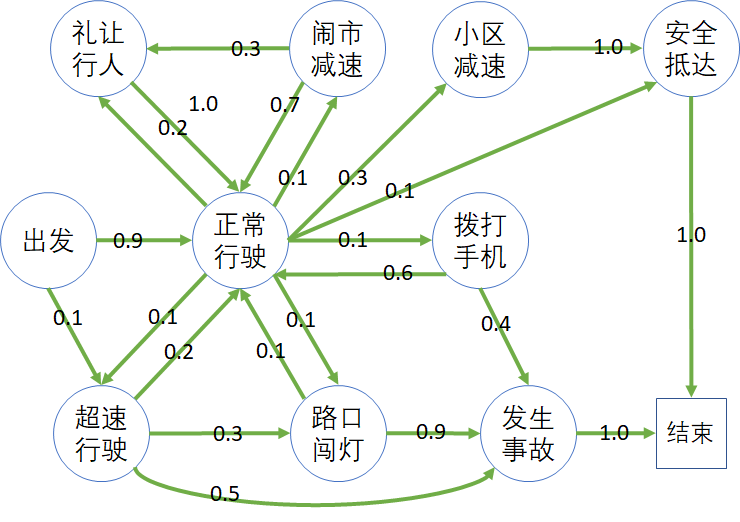
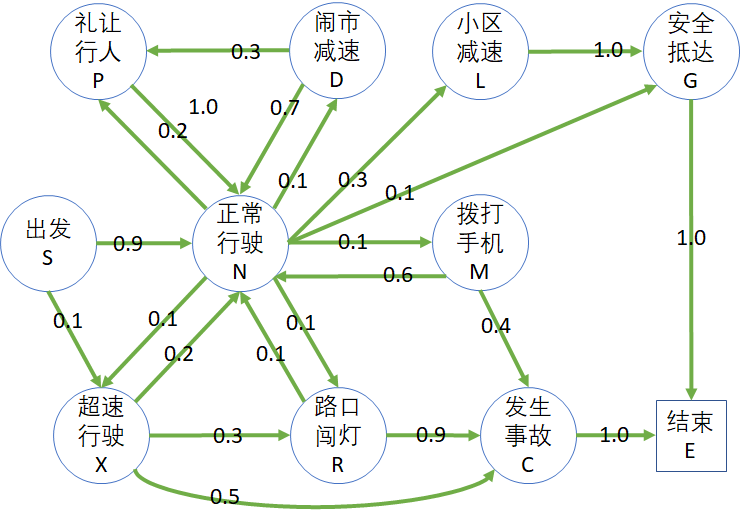
up

diff --git a/基础教程/A7-强化学习/60-安全驾驶问题 - 从简单奖励到价值形成/1-安全驾驶问题.md b/基础教程/A7-强化学习/60-安全驾驶问题 - 从简单奖励到价值形成/1-安全驾驶问题.md
@@ -49,9 +49,9 @@
 |C：发生事故|车撞车、车撞人、车撞物。|1.0：结束，不能再达到目的地。|
 |E：结束|终止状态。|进入此状态后将不再进行转移。||
 
-在上一章的学生学习问题中，“结业”是终止状态；在图 6.1.2 中，“安全抵达”和“发生事故”都可以做为终止状态，为什么还有一个单独的“结束”状态呢？
+有的读者可能会较真儿：进入小区减速状态后，就一定可以安全抵达吗？当然，在小区里可能会有很多突发情况，比如老人儿童突然横穿道路等等。在此我们就不再细化这个模型了。
 
-这涉及到了本章后面要学习的状态价值函数的一些规则，请读者继续阅读。
+在上一章的学生学习问题中，“结业”是终止状态；在图 6.1.2 中，“安全抵达”和“发生事故”都可以做为终止状态，为什么还有一个单独的“结束”状态呢？这涉及到了本章后面要学习的状态价值函数的一些规则，请读者继续阅读。
 
 ### 6.1.3 奖励机制
 
@@ -91,8 +91,6 @@
 
 6. 出发和结束都是 0 分。
 
-在上一章的学生学习问题中，我们给与了最后的结业状态 +5 的奖励，但是在这里，
-
 根据上面学习的知识，再结合基本模型，我们给每个状态定义的奖励值如图 6.1.3 所示。
 
 <center>
@@ -101,40 +99,59 @@
 图 6.1.3 安全驾驶问题的奖励
 </center>
 
-显然，这里使用了**面向结果**的方式来定义奖励，举例来说，无论状态“发生事故”是通过什么路径到达的（可以通过“拨打手机”到达，也可以通过“路口闯灯”到达），都可以得到 -6 的奖励（实际上是惩罚）。
+显然，这里使用了**面向结果**的方式来定义奖励，举例来说：
+
+- 给“出发”状态 0 分，其实不给这个奖励也无所谓，因为该状态为起始状态（在强化学习的传统内容中没有关于起始状态的定义，只有关于终止状态的定义），没有任何状态可以转移到该状态，所以永远也不会得到这个奖励。
+
+- 状态“发生事故”可以通过“拨打手机”到达，也可以通过“路口闯灯”到达，都得到 -1 的奖励（实际上是惩罚）。
+
+- 特别设立“结束”状态为终止状态，以避免有两个“终止”状态（安全抵达，发生事故），并且给与该终止状态 0 分的奖励。
 
 ### 6.1.4 分幕采样
 
-在图 6.1.3 中，可以根据不同的司机上路的经历，获得不同的到达终点路径，比如：
+在图 6.1.3 中，可以根据不同的司机上路的经历（状态转移），获得不同的到达终点路径，比如：
 
-- S:出发 - N:正常行驶 - L:小区减速 - G:安全抵达 - E:结。
+- S:出发 - N:正常行驶 - L:小区减速 - G:安全抵达 - E:结束。
 - S:出发 - N:正常行驶 - P:礼让行人 - N:正常行驶 - L:小区减速 - G:安全抵达 - E:结束。
 - S:出发 - N:正常行驶 - R:路口闯灯 - C:发生事故 - E:结束。
 - S:出发 - X:超速行驶 - R:路口闯灯 - N:正常行驶 - R:路口闯灯 - C:发生事故 - E:结束。
 ......
 
-根据状态转移可以得到一些完整的分幕采样，从而可以计算出每个采样的回报值，列在表 6.1.1 中。
+然后列出马尔科夫奖励过程的数据序列，如表 6.1.1。
 
-表 6.1.1 分幕采样和回报计算
+表 6.1.1 采样和奖励过程
+
+|序号|状态序列|奖励过程|
+|:-:|-|-|
+|1|S - N - L - G - E|$s_S,0,s_N,1,s_L,5,s_G,0,s_E$|
+|2|S - N - P - N - L - G - E|$s_S,0,s_N,1,s_P,0,s_N,1,s_L,5,s_G,0,s_E$|
+|3|S - N - R - C - E|$s_S,0,s_N,-6,s_R,-1,s_C,0,s_E$|
+|4|S - X - R - N - R - C - E|$s_S,-3,s_X,-6,s_R,0,s_N,-6,s_R,-1,s_C,0,s_E$|
+
+表 6.1.1 中奖励过程一列中的 $s$ 表示状态，数字表示奖励值。从而可以计算出每个采样的回报值，列在表 6.1.2 中。
+
+表 6.1.2 分幕采样和回报计算
 
 |序号|数据序列|回报值计算|
 |:-:|-|-|
-|1|S - N - L - G - E|$G_{S}=0+0+1+5+0=6$|
-|2|S - N - P - N - L - G - E|$G_{S}=0+0+1+0+1+5+0=7$|
-|3|S - N - R - C - E|$G_{S}=0+0-6-1+0=-7$|
-|4|S - X - R - N - R - C - E|$G_{S}=0-3-6+0-6-1+0=-16$|
+|1|$s_S,0,s_N,1,s_L,5,s_G,0,s_E$|$G_{S}=0+1+5+0=6$|
+|2|$s_S,0,s_N,1,s_P,0,s_N,1,s_L,5,s_G,0,s_E$|$G_{S}=0+1+0+1+5+0=7$|
+|3|$s_S,0,s_N,-6,s_R,-1,s_C,0,s_E$|$G_{S}=0-6-1+0=-7$|
+|4|$s_S,-3,s_X,-6,s_R,0,s_N,-6,s_R,-1,s_C,0,s_E$|$G_{S}=-3-6+0-6-1+0=-16$|
 
 本来应该写成 $G_0$，但是我们都是以“S:出发”状态为 $S_0$ 的，所以直接写成 $G_S$，以明确表示是状态 S 的回报值。
 
 ### 6.1.4 折扣
 
-表 6.1.2 是表 6.1.1 的拷贝，只不过设置折扣值为 0.9。
+表 6.1.3 是表 6.1.2 的拷贝，只不过设置折扣值为 0.9。
 
-表 6.1.2 带折扣的回报计算
+表 6.1.3 带折扣的回报计算
 
 |序号|回报值计算（$\gamma=0.9$）|
 |:-:|-|-|
-|1|$\footnotesize{G_{S}=0+0.9*0+0.9^2*1+0.9^3*10+0.9^4*0=8.1}$|
-|2|$\footnotesize{G_{S}=0+0.9*0+0.9^2*1+0.9^3*0+0.9^4*1+0.9^5*10+0.9^6*0=7.371}$|
-|3|$\footnotesize{G_{S}=0+0.9*0-0.9^2*6-0.9^3*12+0.9^4*0=-13.608}$|
-|4|$\footnotesize{G_{S}=0-0.9*3-0.9^2*6+0.9^3*0-0.9^4*6-0.9^5*12+0.9^6*0=-18.58}$|
+|1|$\footnotesize{G_{S}=0+0.9*1+0.9^2*5+0.9^3*0=4.95}$|
+|2|$\footnotesize{G_{S}=0+0.9*1+0.9^2*0+0.9^3*1+0.9^4*5+0.9^5*0=4.91}$|
+|3|$\footnotesize{G_{S}=0-0.9*6-0.9^2*1+0.9^3*0=-6.21}$|
+|4|$\footnotesize{G_{S}=-3-0.9*6+0.9^2*0-0.9^3*6-0.9^4*1+0.9^5*0=-11.63}$|
+
+OK！到此为止，我们已经复习好了上一章学习的内容，并应用于一个新的场景中。下面我们要一起来学习状态价值函数。
